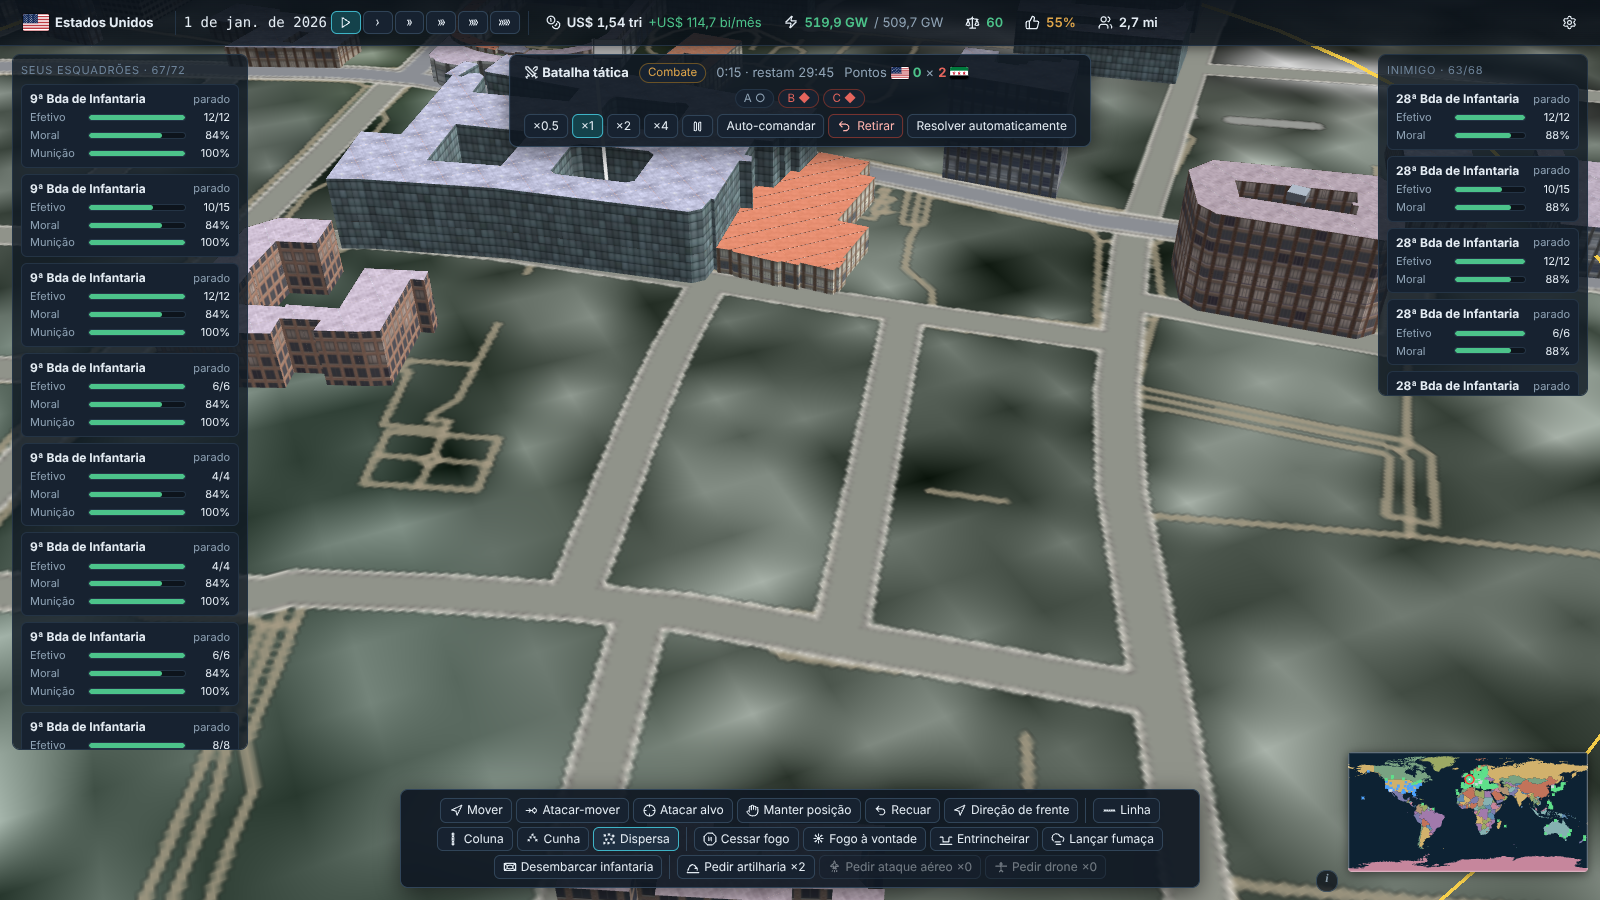
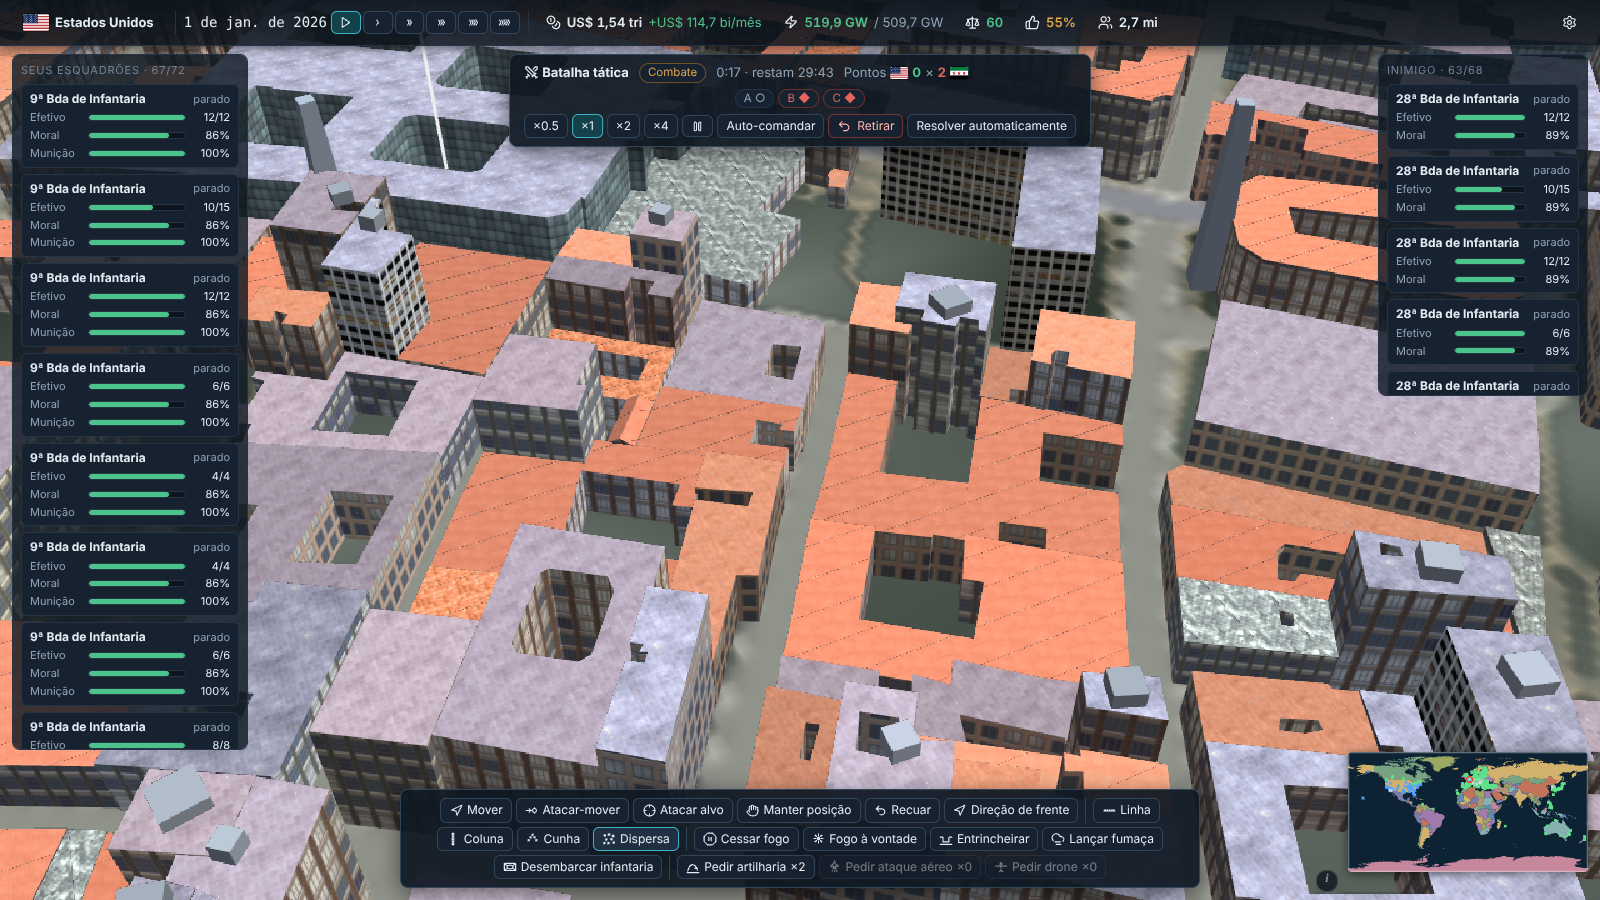
Building collapse and rubble rendering, glass facade opacity fix, tactical fixes
- collapse animation per cause (shell/bomb/breach) with dust and falling blocks; rubble generated from editable styles/rubble.json, one primitive per tile
- hide destroyed buildings by re-batching only the affected tile
- Cesium Material defaulted to translucent: buildings went to the blended pass; now opaque (before/after proof screenshots)
- tactical map origin alignment (was up to ~46 m off), right-click attack targets squad id, camera min distance 45 m
- marked route drawn as dashed line with numbered waypoints

Typecheck clean, 180 unit tests, build and rubble e2e pass.

Claude-Session: https://claude.ai/code/session_013QcNpJ5SXUc3dn4SU43uWg

diff --git a/e2e/rubble.spec.ts b/e2e/rubble.spec.ts
@@ -30,7 +30,8 @@ test('tático: prédio destruído por artilharia desmorona e vira escombros', as
     await page.waitForTimeout(2500);
   };
 
-  await page.addInitScript(() => { (window as unknown as { __vectorTimeoutMs: number }).__vectorTimeoutMs = 400_000; }); // slow links: let the real vector map finish
+  // software GL: the light graphics profile keeps a frame affordable (fewer city tiles); slow links: let the real vector map finish
+  await page.addInitScript(() => { try { localStorage.setItem('meridiano.settings.v1', JSON.stringify({ quality: 'mobile', resolutionScale: 0.8 })); } catch { /* none */ } (window as unknown as { __vectorTimeoutMs: number }).__vectorTimeoutMs = 400_000; }); // slow links: let the real vector map finish
   await page.goto('./');
   await expect(page.getByTestId('main-menu')).toBeVisible({ timeout: 150_000 });
   await page.getByTestId('menu-new').click();
@@ -77,7 +78,7 @@ test('tático: prédio destruído por artilharia desmorona e vira escombros', as
   const near = await page.evaluate(([x, y]) => {
     const g = window.__game!, b = g.state.tactical.battle!;
     const mine = b.squads.filter((q) => q.side === b.player).slice(0, 2);
-    const pts = [[x - 50, y - 38], [x - 22, y - 62]];
+    const pts = [[x - 34, y - 30], [x - 8, y - 44]];
     mine.forEach((q, i) => {
       q.x = pts[i][0]; q.y = pts[i][1]; q.ox = q.x; q.oy = q.y; q.path = []; q.pi = 0; q.order = 'idle';
       b.ents.filter((e) => e.sq === q.id && !e.gone).forEach((e, k) => { e.x = q.x + ((k % 4) - 1.5) * 5; e.y = q.y + Math.floor(k / 4) * 5; });
@@ -86,7 +87,7 @@ test('tático: prédio destruído por artilharia desmorona e vira escombros', as
     return mine.map((q) => ({ id: q.id, x: Math.round(q.x), y: Math.round(q.y) }));
   }, [target.x, target.y] as [number, number]);
   log(`esquadrões perto do alvo: ${JSON.stringify(near)}`);
-  const cx = (target.x + near.reduce((a, q) => a + q.x, 0)) / (1 + near.length), cy = (target.y + near.reduce((a, q) => a + q.y, 0)) / (1 + near.length);
+  const cx = target.x, cy = target.y - 18; // the building sits at the screen centre, the units just below it
   const look = async (range: number, pitch: number, heading: number) => {
     await page.evaluate(([x, y, r, p, h]) => { window.__tactical!.focus({ x, y }, { range: r, pitchDeg: p, headingDeg: h, durationS: 0 }); }, [cx, cy, range, pitch, heading] as [number, number, number, number, number]);
     await settle();
@@ -94,7 +95,11 @@ test('tático: prédio destruído por artilharia desmorona e vira escombros', as
     expect(h, 'câmera acima de 70 m (árvores somem abaixo disso)').toBeGreaterThan(70);
     return h;
   };
-  const camH = await look(250, -38, 25);
+  const camH = await look(190, -42, 25);
+  {
+    const dbg = await page.evaluate((id) => { const b = window.__game!.state.tactical.battle!; const nb = (b.map.nav!.buildings as any[]).find((q) => q.id === id); const lon = b.center[0] + nb.cx / (111320 * Math.cos((b.center[1] * Math.PI) / 180)), lat = b.center[1] + nb.cy / 111320; return { nb: { area: Math.round(nb.area), h: nb.h, cx: nb.cx, cy: nb.cy }, near: (window as any).__city3d.near(lon, lat, 5) }; }, target.id);
+    log(`alvo nav vs cidade 3D: ${JSON.stringify(dbg)}`);
+  }
   const before = await ev(() => (window as any).__city3d.stats());
   log(`antes: câmera ${Math.round(camH)} m, prédios ${before.buildings}, ruínas ${JSON.stringify(await ev(() => (window as any).__city3d.ruinStats()))}`);
   expect(before.buildings).toBeGreaterThan(100);
@@ -106,10 +111,11 @@ test('tático: prédio destruído por artilharia desmorona e vira escombros', as
   const res = await page.evaluate(([id, x, y]) => {
     const g = window.__game!, B = () => g.state.tactical.battle!, side = B().player as 0 | 1;
     B().support[side].artillery = Math.max(B().support[side].artillery, 80);
+    (B().bldHp ??= {})[id] = 25; // already shaken by earlier fire: a few shells finish it (keeps the photos readable)
     const fell = () => (B().map.rub ?? []).some((r) => r.id === id);
     let salvos = 0;
     for (let guard = 0; guard < 12 && !fell(); guard++) {
-      if (!B().pend.length) for (let k = 0; k < 30; k++) { const r = g.dispatch({ type: 'tac.order', country: 'USA', squads: [], order: { kind: 'artillery', x, y } } as never); if (!r.ok) throw new Error(JSON.stringify(r)); salvos++; }
+      if (!B().pend.length) for (let k = 0; k < 4; k++) { const r = g.dispatch({ type: 'tac.order', country: 'USA', squads: [], order: { kind: 'artillery', x, y } } as never); if (!r.ok) throw new Error(JSON.stringify(r)); salvos++; }
       for (let i = 0; i < 480 && !fell(); i++) g.ctx.api.tactical.advance(0.25);
     }
     const bt = B(); return { salvos, fell: fell(), t: bt.t, hp: bt.bldHp?.[id] ?? null, left: bt.support[side].artillery, phase: bt.phase, ents: bt.ents.filter((e) => e.alive).length };
@@ -138,7 +144,7 @@ test('tático: prédio destruído por artilharia desmorona e vira escombros', as
   await settle();
   const after = await ev(() => (window as any).__city3d.stats());
   const rs = await ev(() => (window as any).__city3d.ruinStats());
-  log(`depois: prédios ${after.buildings} (antes ${before.buildings}) ruínas ${JSON.stringify(rs)}`);
+  log(`depois (matched/nearest): ${JSON.stringify(rs)} prédios ${after.buildings} (antes ${before.buildings}) ruínas ${JSON.stringify(rs)}`);
   expect(after.buildings, 'o prédio em pé some da cidade 3D').toBeLessThan(before.buildings);
   expect(rs.tris).toBeGreaterThan(50);
   expect(rs.tris, 'escombros baratos').toBeLessThan(2500);

diff --git a/src/render/city3d/rubbleTile.ts b/src/render/city3d/rubbleTile.ts
@@ -11,7 +11,7 @@ import { styles } from './styles';
 
 /** A ruin expressed in one tile's local metres. */
 interface LocalRuin { r: Ruin; ring: number[]; cx: number; cy: number; x0: number; x1: number; y0: number; y1: number }
-interface Anim { bld: Cesium.Primitive[]; heap: Cesium.Primitive[]; pivot: Cesium.Cartesian3; dir: [number, number]; spec: CollapseSpec; lr: LocalRuin }
+interface Anim { last: number; bld: Cesium.Primitive[]; heap: Cesium.Primitive[]; pivot: Cesium.Cartesian3; dir: [number, number]; spec: CollapseSpec; lr: LocalRuin }
 
 const HIDE_MARGIN = 2.5;
 const toLocal = (t: TileRef, lon: number, lat: number): [number, number] => {
@@ -41,7 +41,7 @@ export class TileRubble {
   private doneSig = '';
   private done: Cesium.Primitive | null = null;
   private anim = new Map<string, Anim>();
-  stats = { hidden: 0, done: 0, animating: 0, tris: 0 };
+  stats = { hidden: 0, done: 0, animating: 0, tris: 0, matched: 0, nearest: -1 };
   constructor(private t: CityTile) {}
 
   private local(r: Ruin): LocalRuin {
@@ -73,8 +73,10 @@ export class TileRubble {
   hideFn(): ((cx: number, cy: number) => boolean) | undefined {
     this.builtSig = this.compute();
     const list = this.mine;
-    this.stats.hidden = list.length;
-    return list.length ? (cx, cy) => list.some((l) => covers(l, cx, cy)) : undefined;
+    this.stats.hidden = list.length; this.stats.matched = 0;
+    // debug: how far the closest drawn footprint centroid is from the first ruin's centre (m); > HIDE_MARGIN means the two maps disagree
+    if (list.length && this.t.area) { let d = 1e9; for (const p of this.t.area.buildings) { const [cx, cy] = polyCentroid(p); d = Math.min(d, Math.hypot(cx - list[0].cx, cy - list[0].cy)); } this.stats.nearest = Math.round(d * 10) / 10; }
+    return list.length ? (cx, cy) => { const hit = list.some((l) => covers(l, cx, cy)); if (hit) this.stats.matched++; return hit; } : undefined;
   }
 
   /** Bring the tile in line with the store: hide / rebuild, rubble primitive, collapse animations. */
@@ -82,19 +84,21 @@ export class TileRubble {
     const t = this.t, st = styles();
     if (t.state !== 'ready' || t.generating || t.dead || !t.area || !t.ground || !st) return;
     const sig = this.compute();
+    let changed = false;
     if (sig !== this.builtSig) void t.rebuildBuildings();
     const done: LocalRuin[] = [], running: LocalRuin[] = [];
     for (const l of this.mine) (ruinProgress(l.r) >= 1 ? done : running).push(l);
     const dsig = done.map((l) => l.r.key).sort().join('|');
-    if (dsig !== this.doneSig) { this.doneSig = dsig; this.buildDone(done); }
-    for (const [k, a] of [...this.anim]) if (!running.some((l) => l.r.key === k)) { this.dropAnim(a); this.anim.delete(k); }
+    if (dsig !== this.doneSig) { this.doneSig = dsig; this.buildDone(done); changed = true; }
+    for (const [k, a] of [...this.anim]) if (!running.some((l) => l.r.key === k)) { this.dropAnim(a); this.anim.delete(k); changed = true; }
     for (const l of running) {
       let a = this.anim.get(l.r.key);
-      if (!a) { a = this.startAnim(l); if (!a) continue; this.anim.set(l.r.key, a); }
-      this.pose(a, ruinProgress(l.r));
+      if (!a) { a = this.startAnim(l); if (!a) continue; this.anim.set(l.r.key, a); changed = true; }
+      const p = ruinProgress(l.r);
+      if (Math.abs(p - a.last) > 1e-4) { a.last = p; this.pose(a, p); changed = true; }
     }
     this.stats.done = done.length; this.stats.animating = this.anim.size; this.stats.hidden = this.mine.length;
-    t.viewer.scene.requestRender();
+    if (changed) t.viewer.scene.requestRender(); // only when something moved: a render loop here would starve captures
   }
 
   private prim(m: Mesh, mat: Cesium.Matrix4): Cesium.Primitive | null {
@@ -142,7 +146,7 @@ export class TileRubble {
       dir = [dx / d, dy / d];
     } else { const a = hash(l.r.id, 7, 3) * Math.PI * 2; dir = [Math.cos(a), Math.sin(a)]; }
     const pivot = projector(t.ref).local(model.cx, model.cy, gz);
-    return { bld, heap, pivot, dir, spec, lr: l };
+    return { last: -1, bld, heap, pivot, dir, spec, lr: l };
   }
   private dropAnim(a: Anim) { for (const p of [...a.bld, ...a.heap]) this.remove(p); }
 
@@ -173,6 +177,6 @@ export class TileRubble {
     this.remove(this.done); this.done = null; this.doneSig = '';
     for (const a of this.anim.values()) this.dropAnim(a);
     this.anim.clear(); this.cache.clear(); this.builtSig = '';
-    this.stats = { hidden: 0, done: 0, animating: 0, tris: 0 };
+    this.stats = { hidden: 0, done: 0, animating: 0, tris: 0, matched: 0, nearest: -1 };
   }
 }

diff --git a/src/render/tactical/layer.ts b/src/render/tactical/layer.ts
@@ -105,7 +105,9 @@ function craterCanvas(): HTMLCanvasElement {
 
 export function attachTacticalLayer(globe: Globe, getGame: () => Game | null): TacticalLayer {
   const viewer = globe.viewer, scene = viewer.scene;
-  const cache = new Map<string, { heights: number[]; nav?: NavData | null }>();
+  const cache = new Map<string, { heights: number[]; nav?: NavData | null; origin: [number, number] }>();
+  /** Where the map handed to the sim for a battle really is centred (a cached map is keyed at ~100 m resolution, so its origin can differ from `battle.center` by tens of metres): the render must use it to line up with the real streets/buildings. */
+  const origins = new Map<string, [number, number]>();
   const key = (lon: number, lat: number) => `${lon.toFixed(3)},${lat.toFixed(3)}`;
   const pending = new Map<string, Promise<void>>();
   const prefetchAt = (lon: number, lat: number) => {
@@ -114,17 +116,18 @@ export function attachTacticalLayer(globe: Globe, getGame: () => Game | null): T
     let p = pending.get(k);
     if (!p) { p = sampleGrid(lon, lat).then(async (h) => {
       if (!h) return;
-      cache.set(k, { heights: h });
+      cache.set(k, { heights: h, origin: [lon, lat] });
       // real vector map (Overture / OpenFreeMap) BEFORE tac.start: the sim reads it synchronously from this cache
       // slow links (tests through a proxy) can raise the per-source budget with window.__vectorTimeoutMs
       const nav = await prepareTacticalVector(lon, lat, { heights: h, hn: 64, timeoutMs: (window as unknown as { __vectorTimeoutMs?: number }).__vectorTimeoutMs });
-      cache.set(k, { heights: h, nav });
+      cache.set(k, { heights: h, nav, origin: [lon, lat] });
     }).finally(() => pending.delete(k)); pending.set(k, p); }
     return p;
   };
   // The sim asks for heights synchronously at `tac.start`; fall back to the rendered globe when the cache is cold.
   setTacticalMapProvider((lon, lat) => {
     const hit = cache.get(key(lon, lat));
+    origins.set(key(lon, lat), hit ? hit.origin : [lon, lat]);
     if (hit) return { heights: hit.heights, vectorArea: hit.nav ?? undefined };
     void prefetchAt(lon, lat);
     const n = 64, sizeM = 8000, cs = sizeM / n, mPer = M_PER_DEG * Math.cos((lat * Math.PI) / 180), cg = new Cesium.Cartographic();
@@ -217,7 +220,8 @@ export function attachTacticalLayer(globe: Globe, getGame: () => Game | null): T
     mode.tactical = true;
     const mf = await loadModelData();
     if (g.state.tactical?.battle?.id !== b.id) { mode.tactical = false; return; }
-    cur = { id: b.id, b, pool: new ModelPool(scene, mf), ents: new Map(), clat: b.center[1], clon: b.center[0], mPerLon: M_PER_DEG * Math.cos((b.center[1] * Math.PI) / 180) };
+    const org = origins.get(key(b.center[0], b.center[1])) ?? b.center;
+    cur = { id: b.id, b, pool: new ModelPool(scene, mf), ents: new Map(), clat: org[1], clon: org[0], mPerLon: M_PER_DEG * Math.cos((org[1] * Math.PI) / 180) };
     bills = scene.primitives.add(new Cesium.BillboardCollection({ scene })) as Cesium.BillboardCollection;
     lines = scene.primitives.add(new Cesium.PolylineCollection()) as Cesium.PolylineCollection;
     labels = scene.primitives.add(new Cesium.LabelCollection({ scene })) as Cesium.LabelCollection;

diff --git a/src/render/city3d/index.ts b/src/render/city3d/index.ts
@@ -9,7 +9,7 @@ import { landmarks, LandmarkLayer, loadLandmarks } from './landmarks';
 import { onRuins, pinRuins } from './ruins';
 import { loadStyles, onStylesChange, reloadStyles, styles } from './styles';
 import { opacityDebug } from './appearance';
-import { cachedTiles, CityTile, sharedAppearance, tallBuildings } from './tile';
+import { cachedTiles, CityTile, sharedAppearance, tallBuildings, nearBuildings } from './tile';
 
 export interface City3DStats {
   active: boolean; agl: number; tiles: number; ready: number; loading: number; failed: number;
@@ -28,13 +28,15 @@ export interface City3D {
   /** Test/debug: freeze every building collapse at progress p (0..1); null follows the battle clock. */
   pinRuins(p: number | null): void;
   /** Destruction state of the visible tiles: buildings hidden, ruins finished, collapses playing, rubble triangles. */
-  ruinStats(): { hidden: number; done: number; animating: number; tris: number };
+  ruinStats(): { hidden: number; done: number; animating: number; tris: number; matched: number; nearest: number };
   /** Test/debug: the tallest big buildings of the loaded tiles (lon/lat of the footprint centre). */
   tall(n?: number): { lon: number; lat: number; h: number; area: number }[];
   /** Test/debug: rebuild the material as it was before the opacity fix (legacy = true) or as shipped, regenerating the visible tiles. */
   legacyBlend(legacy: boolean): Promise<void>;
   /** Test/debug: hide a magenta box inside the building at lon/lat (lower than its walls) and frame its facade from outside. */
   hiddenProbe(t: { lon: number; lat: number; h: number; area: number }): void;
+  /** Test/debug: footprints of the loaded tiles closest to a point. */
+  near(lon: number, lat: number, n?: number): ReturnType<typeof nearBuildings>;
   destroy(): void;
 }
 
@@ -166,6 +168,7 @@ export function attachCity3D(globe: Globe): City3D {
     active: () => on,
     update,
     pinRuins,
+    near: (lon, lat, n = 4) => nearBuildings(tiles.values(), lon, lat, n),
     tall: (n = 5) => tallBuildings(tiles.values(), n),
     hiddenProbe(t) {
       const g = globe.heightAt(t.lon, t.lat);
@@ -174,7 +177,7 @@ export function attachCity3D(globe: Globe): City3D {
       scene.requestRender();
     },
     async legacyBlend(legacy) { opacityDebug.legacy = legacy; await reloadStyles(true); },
-    ruinStats: () => [...tiles.values()].reduce((a, t) => ({ hidden: a.hidden + t.rub.stats.hidden, done: a.done + t.rub.stats.done, animating: a.animating + t.rub.stats.animating, tris: a.tris + t.rub.stats.tris }), { hidden: 0, done: 0, animating: 0, tris: 0 }),
+    ruinStats: () => [...tiles.values()].reduce((a, t) => ({ hidden: a.hidden + t.rub.stats.hidden, done: a.done + t.rub.stats.done, animating: a.animating + t.rub.stats.animating, tris: a.tris + t.rub.stats.tris, matched: a.matched + t.rub.stats.matched, nearest: Math.max(a.nearest, t.rub.stats.nearest) }), { hidden: 0, done: 0, animating: 0, tris: 0, matched: 0, nearest: -1 }),
     stats() {
       const all = [...tiles.values()];
       const sum = (f: (t: CityTile) => number) => all.reduce((s, t) => s + f(t), 0);

diff --git a/src/render/city3d/tile.ts b/src/render/city3d/tile.ts
@@ -6,7 +6,7 @@ import type { VectorArea } from '../../data/vector/types';
 import { cityAppearance, opacityDebug, type CityAppearance } from './appearance';
 import { loadAtlas, type Atlas } from './atlas';
 import { buildBuildings, polyCentroid } from './buildings';
-import { projector, type TileRef } from './geo';
+import { projector, TZ, tileXY, type TileRef } from './geo';
 import { marksFor } from './landmarks';
 import { loadGround, type Ground } from './ground';
 import { buildInfra } from './infra';
@@ -45,6 +45,21 @@ export function tallBuildings(tiles: Iterable<CityTile>, n: number): { lon: numb
     }
   }
   return out.sort((u, v) => v.h - u.h).slice(0, n);
+}
+/** Debug: the `n` drawn footprints closest to lon/lat (distance m, area m2, height, offset east/north m from the point). */
+export function nearBuildings(tiles: Iterable<CityTile>, lon: number, lat: number, n: number): { d: number; dx: number; dy: number; area: number; h: number; tile: string }[] {
+  const out: { d: number; dx: number; dy: number; area: number; h: number; tile: string }[] = [];
+  for (const t of tiles) {
+    if (t.state !== 'ready' || !t.area) continue;
+    const [gx, gy] = tileXY(lon, lat, TZ), px = (gx - (t.ref.x + 0.5)) * t.ref.sizeM, py = -(gy - (t.ref.y + 0.5)) * t.ref.sizeM;
+    for (const p of t.area.buildings) {
+      const [cx, cy] = polyCentroid(p), d = Math.hypot(cx - px, cy - py);
+      if (d > 150) continue;
+      const r = p.rings[0]; let a = 0; for (let i = 0, k = r.length / 2, j = k - 1; i < k; j = i++) a += r[j * 2] * r[i * 2 + 1] - r[i * 2] * r[j * 2 + 1];
+      out.push({ d: Math.round(d * 10) / 10, dx: Math.round((cx - px) * 10) / 10, dy: Math.round((cy - py) * 10) / 10, area: Math.round(Math.abs(a) / 2), h: p.h ?? 0, tile: t.ref.key });
+    }
+  }
+  return out.sort((u, v) => u.d - v.d).slice(0, n);
 }
 /** Imagery provider that serves one canvas as a single image over `rect` (no PNG encode/decode round trip). */
 function canvasTileProvider(canvas: HTMLCanvasElement, rect: Cesium.Rectangle): Cesium.ImageryProvider {
@@ -144,7 +159,7 @@ export class CityTile {
         Object.assign(this.stats, { buildings: bm.stats.count, majorBuildings: bm.stats.major, tris: bm.stats.tris, styles: bm.stats.byStyle });
         this.viewer.scene.requestRender();
       } while (this.rub.needsRebuild());
-    } finally { this.rebuilding = false; }
+    } catch (e) { console.warn('city3d rebuildBuildings', this.ref.key, e); } finally { this.rebuilding = false; }
   }
   private async generateInner(st: Styles, my: number, scene: Cesium.Scene, r: TileRef, area: VectorArea, ground: Ground, t0: number, stale: () => boolean): Promise<void> {
     this.clearGenerated();
